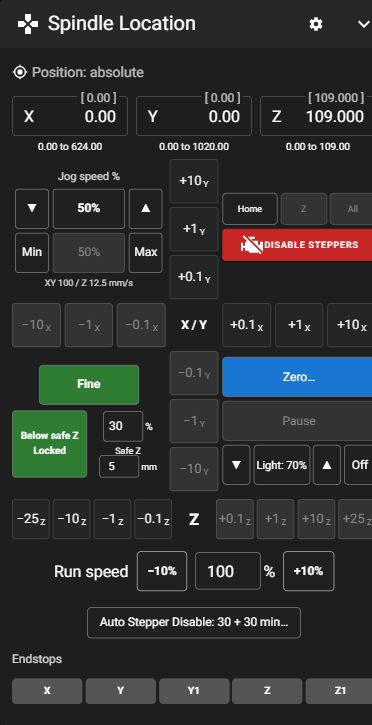
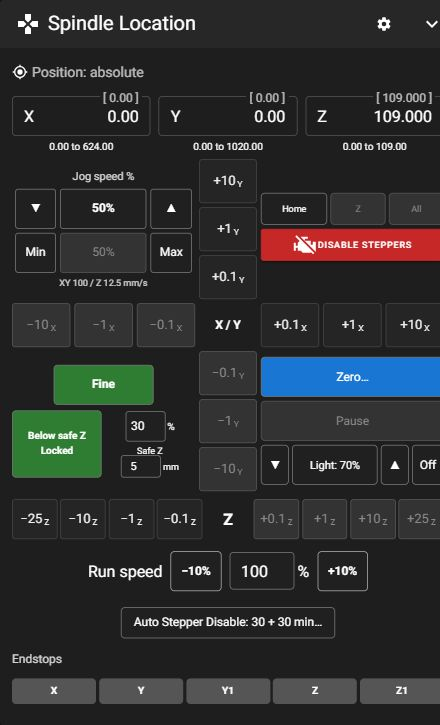
New backup from 21/10/26 - 19:30:25

diff --git a/README.md b/README.md
@@ -51,7 +51,7 @@ The interface is optimized for a narrow touchscreen: larger touch targets, fewer
 <tr><td align="center"><img src="lowrider-backup-docs/screenshots/android-coarse.png" alt="Android-sized Spindle Location panel in coarse mode" width="360"></td><td align="center"><img src="lowrider-backup-docs/screenshots/android-fine.png" alt="Android-sized Spindle Location panel in fine mode with smaller movement increments" width="360"></td></tr>
 </table>
 
-*Responsive browser captures at a 412-pixel phone viewport, cropped to the spindle panel; these show the Android layout rather than a native Android app.*
+*Responsive browser captures at phone-sized viewports, cropped to the spindle panel; these show the Android layout rather than a native Android app.*
 
 ### Why step buttons instead of a jog wheel?
 
@@ -138,6 +138,14 @@ This private repository preserves the LowRider's configuration, custom controls,
 The schedule checks **every 15 minutes** and commits only changed content; failed uploads retry on a later check. **G-code files are included**, recursively, along with text/Markdown notes. Archived and quarantined programs retain their directory names: backing them up does not make them suitable for the current machine origin or tool setup. This is a configuration-and-program backup, not a full SD-card image: thumbnails, videos, logs, network credentials, private keys, and authorization data are excluded. Browser-local choices such as Safe Z and jog cap must be rechecked on a new device.
 
 See **[RESTORE.md](lowrider-backup-docs/RESTORE.md)** for paths, integrity checks, settings import, and backup maintenance. Mainsail upgrades can replace the loading page or change selectors; Klipper upgrades can affect the custom controller extension. Test compatibility before relying on either after an upgrade.
+
+## Help make Klipper better for CNC
+
+I'm a GitHub newbie, and I'd love your help turning this into a very usable **Klipper CNC interface**. Pull requests, suggestions, bug reports, and direct feedback are all welcome. You don't need to know how to write code to contribute—tell me what feels awkward, what would make setup easier, or what you wish your CNC controls could do.
+
+If you're comfortable with GitHub, open an **issue** to discuss an idea or submit a **pull request** with an improvement. Screenshots and a few words about your machine, phone/browser, and what you expected are especially useful. Feedback on Android usability, jogging, work zeros, pause/resume, and clearance controls would be great.
+
+The goal is to build this around real CNC workflows and make it useful beyond my own LowRider. This repository is currently a private machine backup; collaboration here requires access. A public, reusable release will need its own reviewed installation instructions and machine-independent defaults.
 
 ---
 

diff --git a/lowrider-backup-docs/README.md b/lowrider-backup-docs/README.md
@@ -51,7 +51,7 @@ The interface is optimized for a narrow touchscreen: larger touch targets, fewer
 <tr><td align="center"><img src="screenshots/android-coarse.png" alt="Android-sized Spindle Location panel in coarse mode" width="360"></td><td align="center"><img src="screenshots/android-fine.png" alt="Android-sized Spindle Location panel in fine mode with smaller movement increments" width="360"></td></tr>
 </table>
 
-*Responsive browser captures at a 412-pixel phone viewport, cropped to the spindle panel; these show the Android layout rather than a native Android app.*
+*Responsive browser captures at phone-sized viewports, cropped to the spindle panel; these show the Android layout rather than a native Android app.*
 
 ### Why step buttons instead of a jog wheel?
 
@@ -138,6 +138,14 @@ This private repository preserves the LowRider's configuration, custom controls,
 The schedule checks **every 15 minutes** and commits only changed content; failed uploads retry on a later check. **G-code files are included**, recursively, along with text/Markdown notes. Archived and quarantined programs retain their directory names: backing them up does not make them suitable for the current machine origin or tool setup. This is a configuration-and-program backup, not a full SD-card image: thumbnails, videos, logs, network credentials, private keys, and authorization data are excluded. Browser-local choices such as Safe Z and jog cap must be rechecked on a new device.
 
 See **[RESTORE.md](RESTORE.md)** for paths, integrity checks, settings import, and backup maintenance. Mainsail upgrades can replace the loading page or change selectors; Klipper upgrades can affect the custom controller extension. Test compatibility before relying on either after an upgrade.
+
+## Help make Klipper better for CNC
+
+I'm a GitHub newbie, and I'd love your help turning this into a very usable **Klipper CNC interface**. Pull requests, suggestions, bug reports, and direct feedback are all welcome. You don't need to know how to write code to contribute—tell me what feels awkward, what would make setup easier, or what you wish your CNC controls could do.
+
+If you're comfortable with GitHub, open an **issue** to discuss an idea or submit a **pull request** with an improvement. Screenshots and a few words about your machine, phone/browser, and what you expected are especially useful. Feedback on Android usability, jogging, work zeros, pause/resume, and clearance controls would be great.
+
+The goal is to build this around real CNC workflows and make it useful beyond my own LowRider. This repository is currently a private machine backup; collaboration here requires access. A public, reusable release will need its own reviewed installation instructions and machine-independent defaults.
 
 ---
 
